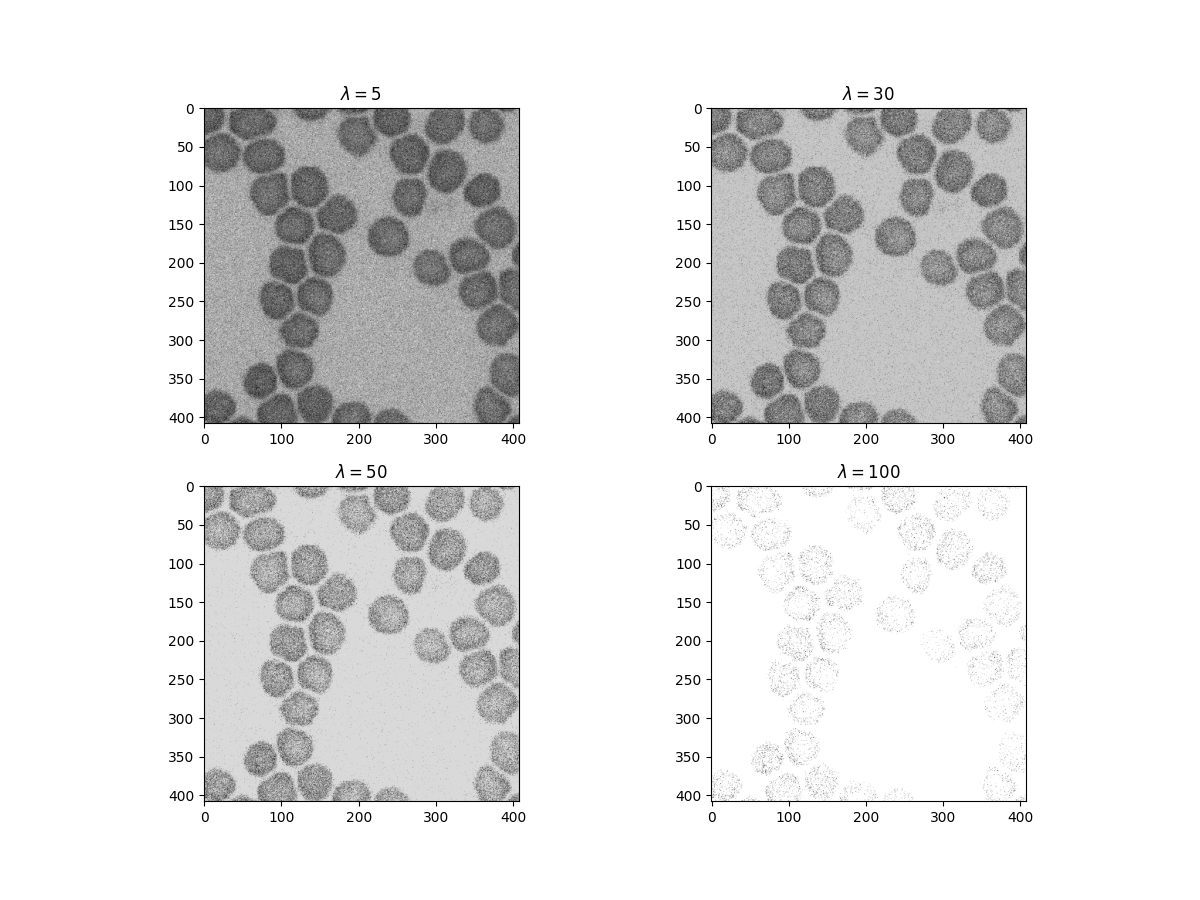
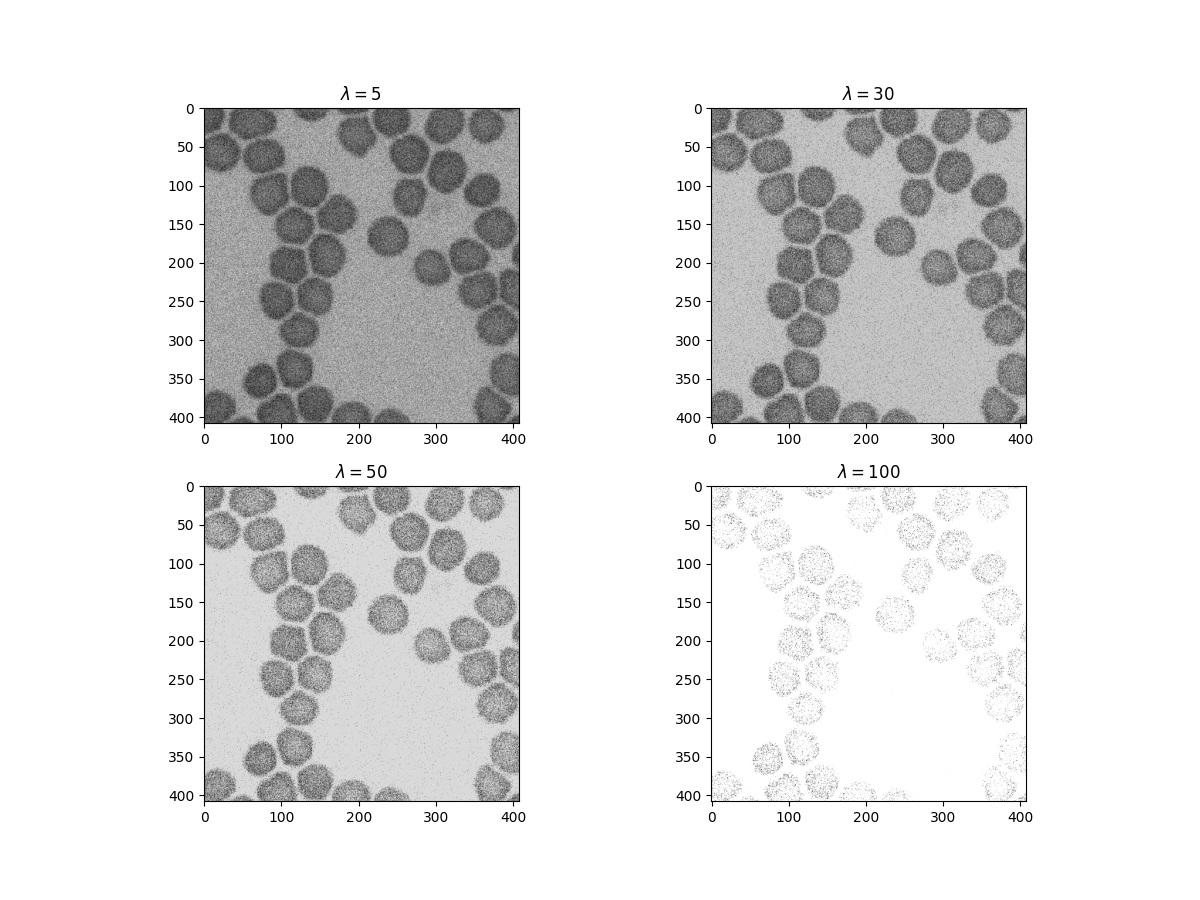
Stack origin and reconst graph

diff --git a/sparse/regularization_l1/l1_reg_splitbregman.py b/sparse/regularization_l1/l1_reg_splitbregman.py
@@ -17,7 +17,7 @@ import lib.lib as lib
 def main():
 
     this_file_path = os.path.dirname(sys.argv[0])
-    img_path = this_file_path+"/data/origin_l1norm.jpg"
+    img_path = this_file_path+"/data/origin_l1norm2.jpg"
     img_load = cv2.imread(img_path)
     I_origin = cv2.cvtColor(img_load, cv2.COLOR_RGB2GRAY)
 
@@ -43,17 +43,17 @@ def main():
     plt.gray()
     plt.imshow(I_reconst)
     plt.title("Reconstructed")
-    plt.savefig(this_file_path+"/data/L1_reconst.png")
+    plt.savefig(this_file_path+"/data/L1_reconst2.png")
     plt.close()
 
-    plt.figure()
-    plt.subplot(2,1,1)
+    plt.figure(figsize=[8,4])
+    #plt.subplot(2,1,1)
     plt.plot(I_noise[50,:])
     plt.ylim(0,250)
-    plt.subplot(2,1,2)
-    plt.plot(I_reconst[50,:])
-    plt.ylim(0,250)
-    plt.savefig(this_file_path+"/data/comp_line.png")
+    #plt.subplot(2,1,2)
+    plt.plot(I_reconst[50,:],color="r")
+    #plt.ylim(0,250)
+    plt.savefig(this_file_path+"/data/comp_line2.png")
     plt.close()
 
     LAMBDA_LIST = [5, 30, 50, 100]
@@ -69,7 +69,7 @@ def main():
         plt.gray()
         plt.imshow(I_LIST[i])
         plt.title("$\lambda = $" + str(LAMBDA_LIST[i]))
-    plt.savefig(this_file_path+"/data/L1_param.png")
+    plt.savefig(this_file_path+"/data/L1_param2.png")
 
 def SplitBregman_L1(I_noise,LAMBDA,THRE):
     B = I_noise - THRE

diff --git a/sparse/regularization_tv/tv_reg_splitbregman.py b/sparse/regularization_tv/tv_reg_splitbregman.py
@@ -34,7 +34,7 @@ def shrink(x,y):
 def main():
     global X_N;global Y_N
     this_file_path = os.path.dirname(sys.argv[0])
-    img_path = this_file_path+"/data/origin_tv.jpg"
+    img_path = this_file_path+"/data/origin_tv2.jpg"
     img_load = cv2.imread(img_path)
     I_t = cv2.cvtColor(img_load, cv2.COLOR_RGB2GRAY)
     f = lib.add_noise(I_t)
@@ -42,7 +42,7 @@ def main():
                  
     CYCLE = 100
     MU = 5.0*10**(-2)
-    LAMBDA = 1.0*10**(-2)
+    LAMBDA = 1#1.0*10**(-2)
     TOL = 5.0*10**(-1)
 
     ## Initialization
@@ -87,15 +87,15 @@ def main():
     #plt.plot(x1, y1)
     plt.title('Reconstructed')
     #plt.axis("off")
-    plt.savefig(this_file_path+"/data/TV_reconst.png")
+    plt.savefig(this_file_path+"/data/TV_reconst2.png")
     #plt.show()
     
-    plt.figure()
-    plt.subplot(2,1,1)
+    plt.figure(figsize=[8,4])
+    #plt.subplot(2,1,1)
     plt.plot(f[50,:])
-    plt.subplot(2,1,2)
-    plt.plot(u[50,:])
-    plt.savefig(this_file_path+"/data/comp_line.png")
+    #plt.subplot(2,1,2)
+    plt.plot(u[50,:],color="r")
+    plt.savefig(this_file_path+"/data/comp_line2.png")
     #plt.show()
 
 if __name__ == "__main__":
